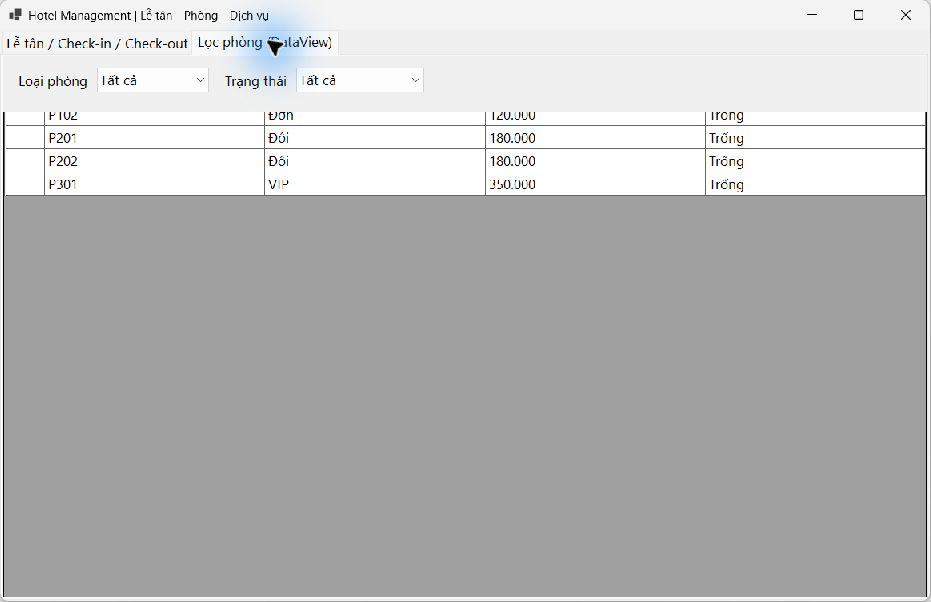
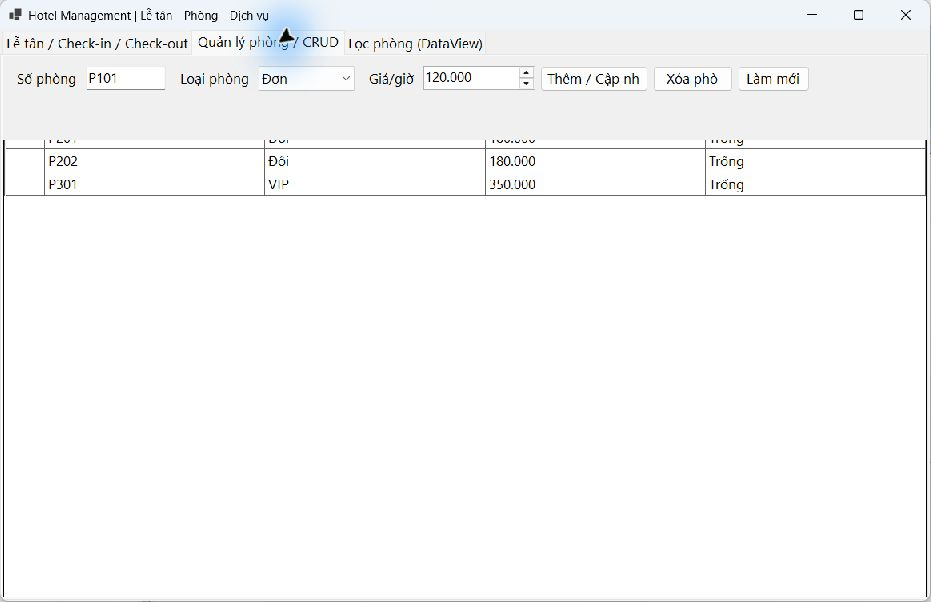
Add hotel room CRUD and complete screenshot set

diff --git a/src/HotelManagement/Form1.cs b/src/HotelManagement/Form1.cs
@@ -5,15 +5,15 @@ namespace HotelManagement.GUI;
 public sealed class Form1:Form
 {
     private readonly HotelBus bus=new();
-    private readonly DataGridView roomsGrid=new(),staysGrid=new();
-    private readonly TextBox txtName=new(),txtCCCD=new(),txtPhone=new();
-    private readonly ComboBox cboRoom=new(),cboService=new(),cboType=new(),cboStatus=new();
-    private readonly NumericUpDown nudQty=new();
+    private readonly DataGridView roomsGrid=new(),staysGrid=new(),roomCrudGrid=new();
+    private readonly TextBox txtName=new(),txtCCCD=new(),txtPhone=new(),txtRoomCode=new();
+    private readonly ComboBox cboRoom=new(),cboService=new(),cboType=new(),cboStatus=new(),cboRoomType=new();
+    private readonly NumericUpDown nudQty=new(),nudRoomRate=new();
     private DataTable? roomTable;
     public Form1()
     {
         Text="Hotel Management | Lễ tân - Phòng - Dịch vụ";StartPosition=FormStartPosition.CenterScreen;Size=new Size(1180,760);MinimumSize=new Size(1000,650);Font=new Font("Segoe UI",10);
-        var tabs=new TabControl{Dock=DockStyle.Fill};tabs.TabPages.Add(BuildReceptionTab());tabs.TabPages.Add(BuildRoomSearchTab());Controls.Add(tabs);Shown+=(_,_)=>LoadData();
+        var tabs=new TabControl{Dock=DockStyle.Fill};tabs.TabPages.Add(BuildReceptionTab());tabs.TabPages.Add(BuildRoomCrudTab());tabs.TabPages.Add(BuildRoomSearchTab());Controls.Add(tabs);Shown+=(_,_)=>LoadData();
     }
     private TabPage BuildReceptionTab()
     {
@@ -40,10 +40,19 @@ public sealed class Form1:Form
         page.Controls.Add(bar);var grid=new DataGridView{Dock=DockStyle.Fill,ReadOnly=true,AllowUserToAddRows=false,AutoSizeColumnsMode=DataGridViewAutoSizeColumnsMode.Fill};grid.DataBindingComplete+=(_,_)=>{if(grid.Columns.Contains("GiaTheoGio")){grid.Columns["GiaTheoGio"].HeaderText="Giá theo giờ";grid.Columns["GiaTheoGio"].DefaultCellStyle.Format="N0";}};page.Controls.Add(grid);
         cboType.Tag=grid;return page;
     }
+    private TabPage BuildRoomCrudTab()
+    {
+        var page=new TabPage("Quản lý phòng / CRUD");var bar=new FlowLayoutPanel{Dock=DockStyle.Top,Height=105,Padding=new Padding(10),WrapContents=true};
+        bar.Controls.Add(new Label{Text="Số phòng",AutoSize=true,Padding=new Padding(0,7,0,0)});txtRoomCode.Width=100;bar.Controls.Add(txtRoomCode);
+        bar.Controls.Add(new Label{Text="Loại phòng",AutoSize=true,Padding=new Padding(8,7,0,0)});cboRoomType.DropDownStyle=ComboBoxStyle.DropDownList;cboRoomType.Items.AddRange(["Đơn","Đôi","VIP"]);cboRoomType.SelectedIndex=0;cboRoomType.Width=120;bar.Controls.Add(cboRoomType);
+        bar.Controls.Add(new Label{Text="Giá/giờ",AutoSize=true,Padding=new Padding(8,7,0,0)});nudRoomRate.Maximum=100000000;nudRoomRate.ThousandsSeparator=true;nudRoomRate.DecimalPlaces=0;nudRoomRate.Width=140;bar.Controls.Add(nudRoomRate);
+        var save=new Button{Text="Thêm / Cập nhật",Width=135,Height=32};save.Click+=(_,_)=>SaveRoom();bar.Controls.Add(save);var del=new Button{Text="Xóa phòng",Width=100,Height=32};del.Click+=(_,_)=>DeleteRoom();bar.Controls.Add(del);var clear=new Button{Text="Làm mới",Width=90,Height=32};clear.Click+=(_,_)=>ClearRoom();bar.Controls.Add(clear);
+        page.Controls.Add(bar);roomCrudGrid.Dock=DockStyle.Fill;roomCrudGrid.ReadOnly=true;roomCrudGrid.AllowUserToAddRows=false;roomCrudGrid.MultiSelect=false;roomCrudGrid.SelectionMode=DataGridViewSelectionMode.FullRowSelect;roomCrudGrid.AutoSizeColumnsMode=DataGridViewAutoSizeColumnsMode.Fill;roomCrudGrid.BackgroundColor=Color.White;roomCrudGrid.SelectionChanged+=(_,_)=>RoomSelected();page.Controls.Add(roomCrudGrid);return page;
+    }
     private static void AddLabeled(Control parent,string caption,Control input,int x,int y,int width){parent.Controls.Add(new Label{Text=caption,Location=new Point(x,y+3),Size=new Size(100,27)});input.Location=new Point(x+100,y);input.Size=new Size(width-100,30);parent.Controls.Add(input);}
     private void LoadData()
     {
-        try{roomTable=bus.Rooms();roomsGrid.DataSource=roomTable;staysGrid.DataSource=bus.ActiveStays();cboRoom.DataSource=roomTable.Copy();cboRoom.DisplayMember="SoPhong";cboRoom.ValueMember="SoPhong";cboService.DataSource=bus.Services();cboService.DisplayMember="TenDV";cboService.ValueMember="MaDV";FormatRooms();FilterRooms();}
+        try{roomTable=bus.Rooms();roomsGrid.DataSource=roomTable;roomCrudGrid.DataSource=roomTable.Copy();if(roomCrudGrid.Columns.Contains("GiaTheoGio")){roomCrudGrid.Columns["GiaTheoGio"].HeaderText="Giá/giờ";roomCrudGrid.Columns["GiaTheoGio"].DefaultCellStyle.Format="N0";}if(roomCrudGrid.Columns.Contains("SoPhong"))roomCrudGrid.Columns["SoPhong"].HeaderText="Số phòng";if(roomCrudGrid.Columns.Contains("LoaiPhong"))roomCrudGrid.Columns["LoaiPhong"].HeaderText="Loại phòng";if(roomCrudGrid.Columns.Contains("TrangThai"))roomCrudGrid.Columns["TrangThai"].HeaderText="Trạng thái";staysGrid.DataSource=bus.ActiveStays();cboRoom.DataSource=roomTable.Copy();cboRoom.DisplayMember="SoPhong";cboRoom.ValueMember="SoPhong";cboService.DataSource=bus.Services();cboService.DisplayMember="TenDV";cboService.ValueMember="MaDV";FormatRooms();FilterRooms();}
         catch(Exception ex){MessageBox.Show("Hãy chạy Database/HotelDB.sql trên localhost\\SQLEXPRESS.\n\n"+ex.Message,"Kết nối SQL Server",MessageBoxButtons.OK,MessageBoxIcon.Error);}
     }
     private void FormatRooms(){if(roomsGrid.Columns.Contains("GiaTheoGio")){roomsGrid.Columns["GiaTheoGio"].HeaderText="Giá/giờ";roomsGrid.Columns["GiaTheoGio"].DefaultCellStyle.Format="N0";}}
@@ -52,6 +61,10 @@ public sealed class Form1:Form
         if(roomTable is null)return;var view=new DataView(roomTable);var filters=new List<string>();if(cboType.SelectedIndex>0)filters.Add($"LoaiPhong='{cboType.Text.Replace("'","''")}'");if(cboStatus.SelectedIndex>0)filters.Add($"TrangThai='{cboStatus.Text.Replace("'","''")}'");view.RowFilter=string.Join(" AND ",filters);if(cboType.Tag is DataGridView grid){grid.DataSource=view;}
     }
     private void SetSelectedRoom(){if(roomsGrid.CurrentRow?.DataBoundItem is not DataRowView row)return;var room=Convert.ToString(row["SoPhong"]);if(room is not null&&cboRoom.Items.Count>0)cboRoom.SelectedValue=room;}
+    private void RoomSelected(){if(roomCrudGrid.CurrentRow?.DataBoundItem is not DataRowView row)return;txtRoomCode.Text=Convert.ToString(row["SoPhong"])??"";cboRoomType.SelectedItem=Convert.ToString(row["LoaiPhong"]);nudRoomRate.Value=Math.Clamp(Convert.ToDecimal(row["GiaTheoGio"]),nudRoomRate.Minimum,nudRoomRate.Maximum);}
+    private void SaveRoom(){try{bus.SaveRoom(txtRoomCode.Text,Convert.ToString(cboRoomType.SelectedItem)??"",nudRoomRate.Value);LoadData();MessageBox.Show("Lưu phòng thành công.");}catch(Exception ex){MessageBox.Show(ex.Message,"Không thể lưu phòng",MessageBoxButtons.OK,MessageBoxIcon.Warning);}}
+    private void DeleteRoom(){if(string.IsNullOrWhiteSpace(txtRoomCode.Text))return;if(MessageBox.Show("Xóa phòng đang chọn?","Xác nhận",MessageBoxButtons.YesNo,MessageBoxIcon.Question)!=DialogResult.Yes)return;try{bus.DeleteRoom(txtRoomCode.Text);ClearRoom();LoadData();}catch(Exception ex){MessageBox.Show("Phòng đã có lịch sử lưu trú nên không thể xóa.\n"+ex.Message,"Không thể xóa phòng",MessageBoxButtons.OK,MessageBoxIcon.Warning);}}
+    private void ClearRoom(){txtRoomCode.Clear();nudRoomRate.Value=0;roomCrudGrid.ClearSelection();}
     private string CurrentRoom()=>Convert.ToString(cboRoom.SelectedValue)??"";
     private void CheckIn(){try{bus.CheckIn(CurrentRoom(),txtName.Text,txtCCCD.Text,txtPhone.Text);MessageBox.Show("Check-in thành công.");txtName.Clear();txtCCCD.Clear();txtPhone.Clear();LoadData();}catch(Exception ex){MessageBox.Show(ex.Message,"Check-in thất bại",MessageBoxButtons.OK,MessageBoxIcon.Warning);}}
     private void AddService(){try{if(cboService.SelectedValue is not int id)throw new InvalidOperationException("Chọn dịch vụ.");bus.AddService(CurrentRoom(),id,(int)nudQty.Value);MessageBox.Show("Đã ghi nhận dịch vụ cho phòng.");}catch(Exception ex){MessageBox.Show(ex.Message,"Gọi dịch vụ thất bại",MessageBoxButtons.OK,MessageBoxIcon.Warning);}}

diff --git a/src/HotelManagement/DAL/HotelDal.cs b/src/HotelManagement/DAL/HotelDal.cs
@@ -7,6 +7,12 @@ public sealed class HotelDal
     private const string Cs="Server=localhost\\SQLEXPRESS;Database=HotelDB;Integrated Security=True;TrustServerCertificate=True;Encrypt=False";
     private SqlConnection Open()=>new(Cs);
     public DataTable Rooms(){using var c=Open();using var a=new SqlDataAdapter("SELECT SoPhong,LoaiPhong,GiaTheoGio,TrangThai FROM dbo.Phong ORDER BY SoPhong",c);var d=new DataTable();a.Fill(d);return d;}
+    public void SaveRoom(string room,string type,decimal rate)
+    {
+        using var c=Open();using var cmd=new SqlCommand("IF EXISTS(SELECT 1 FROM dbo.Phong WHERE SoPhong=@room) UPDATE dbo.Phong SET LoaiPhong=@type,GiaTheoGio=@rate WHERE SoPhong=@room ELSE INSERT dbo.Phong(SoPhong,LoaiPhong,GiaTheoGio) VALUES(@room,@type,@rate)",c);
+        cmd.Parameters.Add("@room",SqlDbType.VarChar,10).Value=room;cmd.Parameters.Add("@type",SqlDbType.NVarChar,50).Value=type;cmd.Parameters.Add("@rate",SqlDbType.Decimal).Value=rate;cmd.Parameters["@rate"].Precision=18;cmd.Parameters["@rate"].Scale=2;cmd.ExecuteNonQuery();
+    }
+    public void DeleteRoom(string room){using var c=Open();using var cmd=new SqlCommand("DELETE dbo.Phong WHERE SoPhong=@room",c);cmd.Parameters.Add("@room",SqlDbType.VarChar,10).Value=room;cmd.ExecuteNonQuery();}
     public DataTable Services(){using var c=Open();using var a=new SqlDataAdapter("SELECT MaDV,TenDV,DonGia FROM dbo.DichVu ORDER BY TenDV",c);var d=new DataTable();a.Fill(d);return d;}
     public DataTable ActiveStays(){using var c=Open();using var a=new SqlDataAdapter("SELECT p.MaPhieu,p.SoPhong,k.HoTen,k.CCCD,p.NgayNhanPhong FROM dbo.PhieuDatPhong p JOIN dbo.KhachHang k ON k.MaKH=p.MaKH WHERE p.NgayTraPhong IS NULL ORDER BY p.NgayNhanPhong",c);var d=new DataTable();a.Fill(d);return d;}
     public void CheckIn(string room,string name,string cccd,string phone)

diff --git a/src/HotelManagement/BUS/HotelBus.cs b/src/HotelManagement/BUS/HotelBus.cs
@@ -5,6 +5,8 @@ public sealed class HotelBus
 {
     private readonly HotelDal dal=new();
     public DataTable Rooms()=>dal.Rooms();public DataTable Services()=>dal.Services();public DataTable ActiveStays()=>dal.ActiveStays();
+    public void SaveRoom(string room,string type,decimal rate){if(string.IsNullOrWhiteSpace(room))throw new ArgumentException("Mã phòng là bắt buộc.");if(room.Trim().Length>10)throw new ArgumentException("Mã phòng tối đa 10 ký tự.");if(type is not ("Đơn" or "Đôi" or "VIP"))throw new ArgumentException("Chọn loại phòng hợp lệ.");if(rate<0)throw new ArgumentException("Giá theo giờ không được âm.");dal.SaveRoom(room.Trim(),type,rate);}
+    public void DeleteRoom(string room){if(string.IsNullOrWhiteSpace(room))throw new ArgumentException("Chọn phòng cần xóa.");dal.DeleteRoom(room.Trim());}
     public void CheckIn(string room,string name,string cccd,string phone){if(string.IsNullOrWhiteSpace(room)||string.IsNullOrWhiteSpace(name)||string.IsNullOrWhiteSpace(cccd))throw new ArgumentException("Phòng, họ tên và CCCD là bắt buộc.");dal.CheckIn(room,name.Trim(),cccd.Trim(),phone.Trim());}
     public void AddService(string room,int service,int qty){if(qty<1)throw new ArgumentException("Số lượng phải lớn hơn 0.");dal.AddService(room,service,qty);}
     public decimal CheckOut(string room)=>dal.CheckOut(room);
